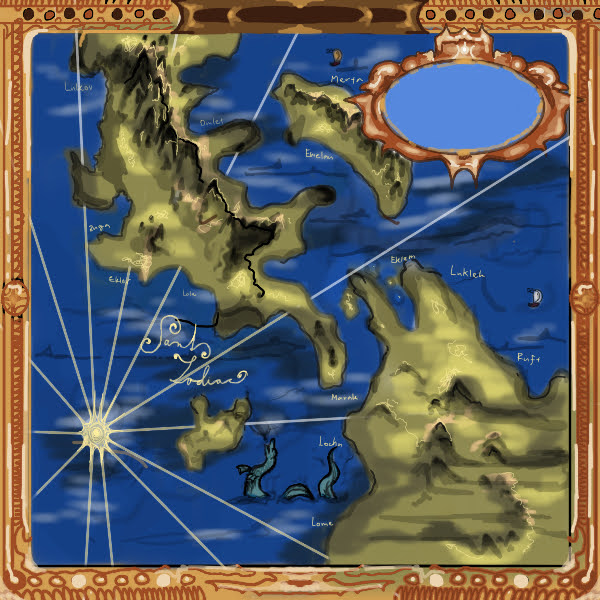
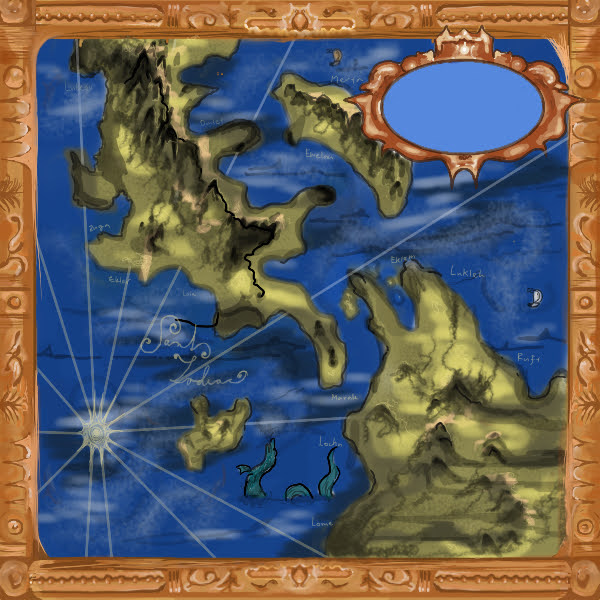
Edit: Font sizes and Improve mainmap

diff --git a/src/lib/ui/PlayerPanel.svelte b/src/lib/ui/PlayerPanel.svelte
@@ -12,6 +12,7 @@
 			brown: '#92400e',
 			darkbrown: '#78350f',
 			darkred: '#be123c',
+			orange: 'orange',
 			utility: '#6366f1',
 			special: '#8b5cf6'
 		};
@@ -102,11 +103,11 @@
 	}
 
 	.player-card {
-		padding: clamp(10px, 2vh, 14px);
-		margin-bottom: clamp(8px, 1.5vh, 12px);
+		padding: clamp(14px, 2.4vh, 20px);
+		margin-bottom: clamp(10px, 2vh, 16px);
 		background: var(--color-bg-panel, rgba(255, 255, 255, 0.04));
 		border: 1px solid rgba(255, 255, 255, 0.08);
-		border-radius: clamp(8px, 1.5vmin, 12px);
+		border-radius: clamp(10px, 1.8vmin, 14px);
 		transition: all 0.2s cubic-bezier(0.4, 0, 0.2, 1);
 	}
 
@@ -126,8 +127,8 @@
 	.player-header {
 		display: flex;
 		align-items: center;
-		gap: clamp(8px, 1.5vw, 12px);
-		margin-bottom: clamp(6px, 1vh, 8px);
+		gap: clamp(10px, 1.8vw, 16px);
+		margin-bottom: clamp(8px, 1.4vh, 12px);
 		background: none;
 		border: none;
 		width: 100%;
@@ -144,13 +145,13 @@
 	}
 
 	.player-token {
-		width: clamp(36px, 6vmin, 44px);
+		width: clamp(44px, 7vmin, 54px);
 		aspect-ratio: 1;
 		border-radius: 50%;
 		display: grid;
 		place-items: center;
 		font-weight: 700;
-		font-size: clamp(0.85rem, 1.8vmin, 0.95rem);
+		font-size: clamp(0.95rem, 2vmin, 1.1rem);
 		color: #fff;
 		box-shadow: 
 			0 2px 8px rgba(0, 0, 0, 0.3),
@@ -177,19 +178,13 @@
 	.money {
 		color: #fff;
 		font-weight: 700;
-		font-size: clamp(1rem, 2.2vmin, 1.15rem);
+		font-size: clamp(1.1rem, 2.4vmin, 1.3rem);
 		line-height: 1.2;
 	}
 
 	.meta {
 		color: #d4d4d4;
-		font-size: clamp(0.75rem, 1.6vmin, 0.85rem);
-	}
-
-	.owns {
-		font-size: clamp(0.75rem, 1.6vmin, 0.85rem);
-		color: #fcd34d;
-		margin-top: clamp(4px, 0.8vh, 6px);
+		font-size: clamp(0.8rem, 1.7vmin, 0.95rem);
 	}
 
 	.jail {
@@ -203,13 +198,13 @@
 	}
 
 	.casino-info {
-		padding: clamp(12px, 2vh, 16px);
-		margin-top: clamp(12px, 2vh, 18px);
+		padding: clamp(14px, 2.4vh, 18px);
+		margin-top: clamp(14px, 2.2vh, 20px);
 		background: linear-gradient(135deg, rgba(146, 64, 14, 0.2) 0%, rgba(120, 53, 15, 0.1) 100%);
 		border: 1.5px solid rgba(251, 191, 36, 0.4);
-		border-radius: clamp(8px, 1.5vmin, 12px);
+		border-radius: clamp(10px, 1.8vmin, 14px);
 		color: #fef3c7;
-		font-size: clamp(0.8rem, 1.8vmin, 0.9rem);
+		font-size: clamp(0.85rem, 1.9vmin, 1rem);
 		line-height: 1.5;
 	}
 

diff --git a/src/lib/ui/Board.svelte b/src/lib/ui/Board.svelte
@@ -18,7 +18,7 @@
 		16: 'ORANGE', 18: 'ORANGE',
 		17: 'green', 19: 'green',
 		32: 'purple', 34: 'purple', 35: 'purple',
-		27: '#AA336A', 28: '#AA336A', 29: '#AA336A',
+		27: '#AA336A', 26: '#AA336A', 29: '#AA336A',
 		21: '#005EB8', 22: '#005EB8', 24: '#005EB8',
 		37: 'darkred', 38: 'darkred',
 
@@ -191,9 +191,10 @@
 		position: absolute;
 		width: 100%;
 		height: 100%;
-		object-fit: fill;
+		object-fit: cover;
 		z-index: 0;
-		border-radius: clamp(10px, 2vmin, 20px);
+		border-radius: clamp(2px, 2vmin, 20px);
+		opacity: 0.6;	
 	}
 
 	:global(.board-center > *) {
@@ -438,7 +439,7 @@
 		width: auto;
 		max-width: calc(100% - 8px);
 		text-align: center;
-		font-size: 0.72rem;
+		font-size: medium;
 		font-weight: 800;
 		z-index: 13;
 		opacity: 0.8;
@@ -461,7 +462,7 @@
 		padding: 2px 4px;
 		width: auto;
 		max-width: calc(100% - 8px);
-		font-size: 0.72rem;
+		font-size: medium;
 		font-weight: 800;
 		z-index: 14;
 		box-shadow: inset 0 1px 0 rgba(255, 255, 255, 0.08);
@@ -536,12 +537,12 @@
 		left: 4px;
 		right: auto;
 		transform: translateY(-50%) rotate(-90deg);
+		font-size: medium;
 	}
 
 	.cell.left-edge .cell-name,
 	.cell.right-edge .cell-name {
 		position: absolute;
-		font-size: 0.75rem;
 		font-weight: 900;
 		margin: 0;
 		line-height: 1.05;
@@ -560,6 +561,7 @@
 		padding: 0;
 		box-sizing: border-box;
 		transform-origin: center;
+		font-size: large;
 	}
 
 	.cell.left-edge .cell-name {
@@ -568,15 +570,23 @@
 		text-orientation: mixed;
 		line-height: 1;
 		white-space: nowrap;
+		font-size: large;
 	}
 
 	.cell.right-edge .cell-name {
 		right: 0;
 		transform: rotate(-90deg);
+		font-size: large;
+	}
+	.cell.top-edge .cell-name {
+		line-height: 0.6;
+		font-size: large;
+		overflow: visible;
 	}
 
 	.cell.bottom-edge .cell-name {
-		line-height: 1;
+		line-height: 0.6;
+		font-size: large;
 		overflow: visible;
 	}
 

diff --git a/src/lib/game/monopoly-engine.svelte.js b/src/lib/game/monopoly-engine.svelte.js
@@ -4,7 +4,7 @@ const BOARD_SIZE = 40;
 const START_REWARD_PASS = 200;
 const START_REWARD_LAND = 100;
 const JAIL_FEE = 50;
-const TAX_TILES = [3, 14, 33];
+const TAX_TILES = [3, 14, 28, 33];
 const TAX_AMOUNT = 200;
 const JAIL_TILE = 10;
 const CASINO_TILE = 20;
@@ -62,11 +62,10 @@ function createDefaultProperties() {
     // SPODNÍ STRANA (ID 21-29) - IZRAEL & ČÍNA
     21: { name: 'Tel Aviv', price: 800, rent: 220, owner: null, color: 'blue', houses: 0, houseCost: 300 },
     22: { name: 'Herzliya', price: 850, rent: 250, owner: null, color: 'blue', houses: 0, houseCost: 300 },
-    23: { name: 'IDK', price: 900, rent: 280, owner: null, color: 'blue', houses: 0, houseCost: 350 },
     24: { name: 'Jerusalem', price: 1000, rent: 350, owner: null, color: 'blue', houses: 0, houseCost: 350 },
-    27: { name: 'Beijing', price: 750, rent: 180, owner: null, color: 'pink', houses: 0, houseCost: 250 },
-    28: { name: 'Tibet', price: 800, rent: 200, owner: null, color: 'pink', houses: 0, houseCost: 250 },
-    29: { name: 'Shanghai', price: 900, rent: 250, owner: null, color: 'pink', houses: 0, houseCost: 300 },
+    29: { name: 'Tibet', price: 800, rent: 200, owner: null, color: 'pink', houses: 0, houseCost: 250 },
+	27: { name: 'Beijing', price: 750, rent: 180, owner: null, color: 'pink', houses: 0, houseCost: 250 },
+    26: { name: 'Shanghai', price: 900, rent: 250, owner: null, color: 'pink', houses: 0, houseCost: 300 },
     25: { name: 'Hat', price: 200, rent: 50, owner: null, color: 'utility', houses: 0, houseCost: 0 },
 
     // LEVÁ STRANA (ID 31-39) - JAMAJKA & USA

diff --git a/src/lib/ui/ActionPanel.svelte b/src/lib/ui/ActionPanel.svelte
@@ -93,11 +93,11 @@
 <style>
 	.action-panel h3 {
 		color: var(--color-gold, #fbbf24);
-		margin: 0 0 clamp(12px, 2vh, 16px) 0;
-		font-size: clamp(0.95rem, 2vmin, 1.1rem);
+		margin: 0 0 clamp(14px, 2.2vh, 18px) 0;
+		font-size: clamp(1.05rem, 2.2vmin, 1.2rem);
 		font-family: var(--font-display, system-ui);
 		font-weight: 700;
-		letter-spacing: 0.5px;
+		letter-spacing: 0.8px;
 		text-transform: uppercase;
 	}
 
@@ -110,7 +110,7 @@
 	.btn {
 		width: 100%;
 		padding: clamp(10px, 2vh, 14px) clamp(12px, 2.5vw, 16px);
-		font-size: clamp(0.85rem, 1.8vmin, 0.95rem);
+		font-size: clamp(1.5rem, 2.3vmin, 1.5rem);
 		font-weight: 700;
 		color: #fff;
 		border: none;
